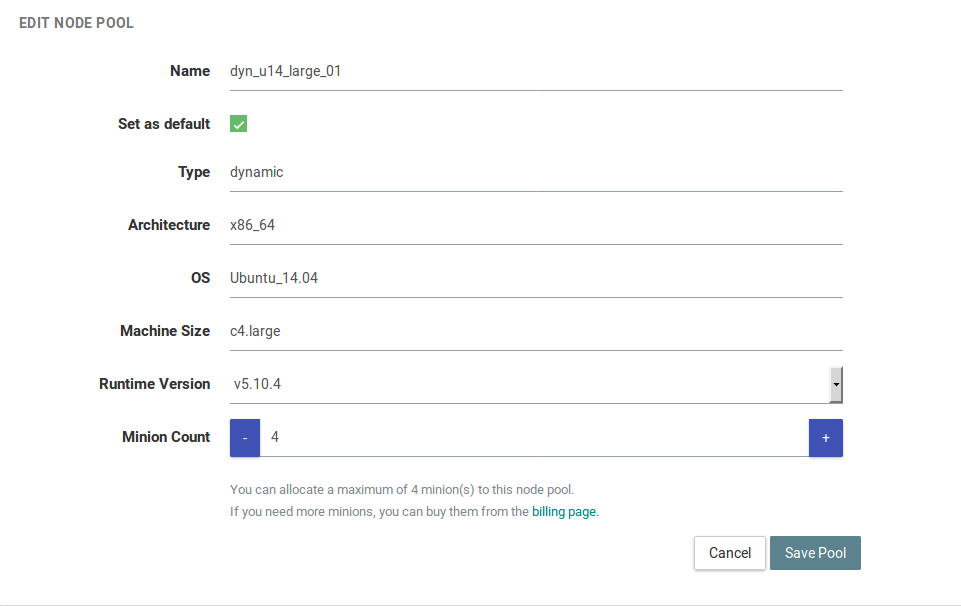
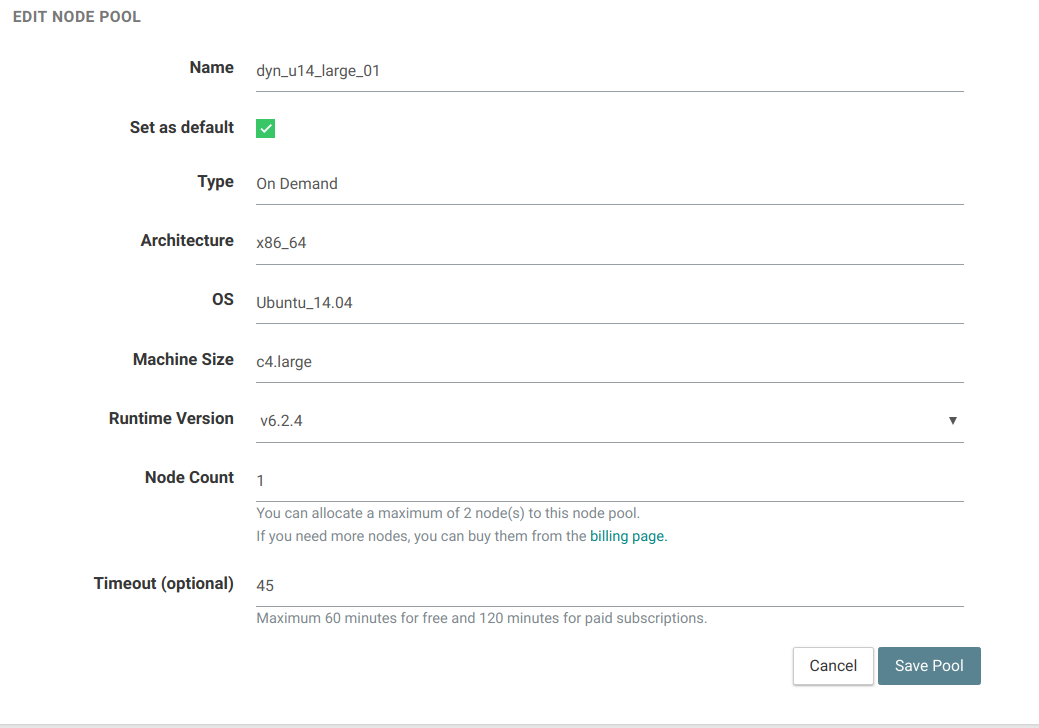
update platform/management/subscription/node-pools docs for setting timeout at nodePool level #1015

diff --git a/sources/platform/management/subscription/node-pools.md b/sources/platform/management/subscription/node-pools.md
@@ -70,6 +70,8 @@ of the Node Pools page. This will open the **ADD NODE POOL** page.
   upper limit is set by the number of licenses that are available at the
   subscription level for the type of selected node pool
 
+* **Timeout** is the maximum time(in minutes) after which you want your CI or runSh jobs to  timeout. This timeout is used when your [CI project](/platform/management/project/settings/) or [runSh job](/platform/workflow/job/runsh/) do not have any timeout specified. If this is also not provided then timeout set at Subscription level or default will be used, in that order. Default value for timeout is 60 minutes for free users and 120 minutes for paid users.
+
 ### Updating node pools
 You can edit any node pool by clicking on the `Edit` button the node pool
 header. This will take you to the **Edit Node Pool** page.
@@ -89,6 +91,8 @@ header. This will take you to the **Edit Node Pool** page.
 * **Node Count** is the number of nodes that can be added to the node pool. The
   upper limit is set by the number of licenses that are available at the
   subscription level for the type of selected node pool
+
+* **Timeout** is the maximum time(in minutes) after which you want your CI or runSh jobs to  timeout. This timeout is used when your [CI project](/platform/management/project/settings/) or [runSh job](/platform/workflow/job/runsh/) do not have any timeout specified. If this is also not provided then timeout set at Subscription level or default will be used, in that order. Default value for timeout is 60 minutes for free users and 120 minutes for paid users.
 
 ### Adding nodes to node pools
 * [On-demand nodes](/platform/runtime/nodes/#on-demand-nodes) automatically get

diff --git a/sources/platform/management/project/settings.md b/sources/platform/management/project/settings.md
@@ -67,7 +67,7 @@ This is used to create a custom URL to clone a project. This can be used to clon
 
 * **Sync**: Synchronize your project with source control system. Usually used to fetch new branches in your source control that are not yet reflected in Shippable
 
-* **Timeout**: This sets the maximum time(in minutes) after which you want your CI job to timeout. If this is not provided then timeout set at Node Pool level, Subscription level or default will be used, in that order. Default value for timeout is 60 minutes for free users and 120 minutes for paid users.
+* **Timeout**: This sets the maximum time(in minutes) after which you want your CI job to timeout. If this is not provided then timeout set at [Node Pool](/platform/management/subscription/node-pools/) level, Subscription level or default will be used, in that order. Default value for timeout is 60 minutes for free users and 120 minutes for paid users.
 
 * **Reset Project**: This will reset all the keys, passwords that Shippable internally creates. If you are using any of these externally, you will need to update those systems as well. You will also need to re-encrypt any secure variables you encrypted on this Project Settings page.
 

diff --git a/sources/platform/workflow/job/runsh.md b/sources/platform/workflow/job/runsh.md
@@ -113,7 +113,7 @@ A description of the job YML structure and the tags available is in the [jobs se
   the behavior of the job.
     * `nodePool` --  The node pool on which the job should run. For detailed
       explanation, read about [node pools](/platform/management/subscription/node-pools/).
-    * `timeoutMinutes` -- Optional. This sets the maximum time(in minutes) after which you want your runSh job to timeout. If this is not provided then timeout set at Node Pool level, Subscription level or default will be used, in that order. Default value for timeout is 60 minutes for free users and 120 minutes for paid users.
+    * `timeoutMinutes` -- Optional. This sets the maximum time(in minutes) after which you want your runSh job to timeout. If this is not provided then timeout set at [Node Pool](/platform/management/subscription/node-pools/) level, Subscription level or default will be used, in that order. Default value for timeout is 60 minutes for free users and 120 minutes for paid users.
     * `container` -- Optional. Boolean field to decide whether the job should
       run inside a container or on the host. `true` by default
   after which the job will be automatically stopped.
